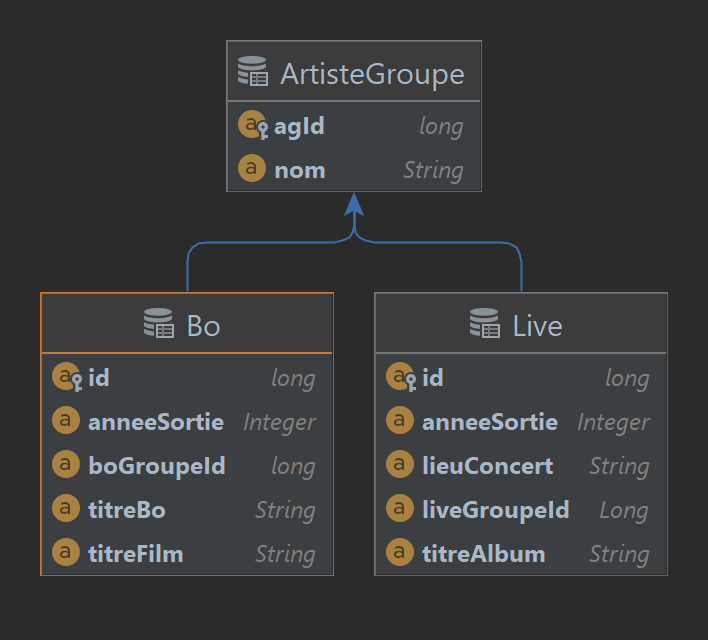
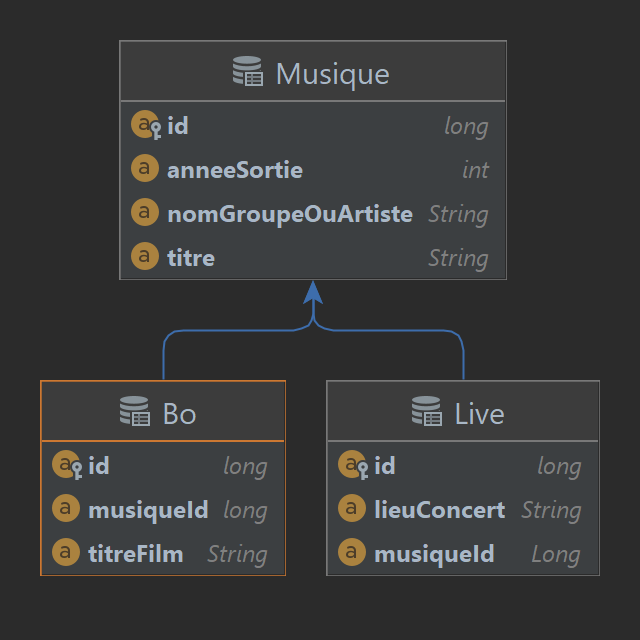
refactoring table artiste_groupe devient musique

diff --git a/src/main/java/LectureFichier.java b/src/main/java/LectureFichier.java
@@ -1,4 +1,4 @@
-import entity.ArtisteGroupe;
+import entity.Musique;
 import entity.Bo;
 
 import javax.persistence.*;
@@ -8,15 +8,17 @@ import java.io.FileReader;
 import java.io.IOException;
 import java.util.*;
 
-
+/**
+ *
+ */
 public class LectureFichier {
 
     static List liste_entites = new LinkedList();
 
     public static void main(String[] args) {
         try {
-            int artiste_groupe_id = 0;
-            int bo_id = 0;
+            int musiqueId = 0;
+            int boId = 0;
             // A. Lecture au clavier du chemin du fichier texte BO & Live
 //            Scanner console = new Scanner(System.in);
             // C:\rootGit\EG3DM\src\test\resources\BoAndLive.txt
@@ -41,30 +43,30 @@ public class LectureFichier {
                 if (type.equals("BO")) {
                     System.out.println("entrée de type:  BO");
                     // Nom de Groupe ou artiste
-                    String titre_bo = data[1];
+                    String titreBO = data[1];
                     // Titre BO
-                    String groupe_artiste = data[2];
+                    String nomGroupeOuArtiste = data[2];
                     // Année de sortie
-                    String annee_sortie = data[3];
+                    String anneeSortie = data[3];
                     // titre film
-                    String titre_film = data[4];
+                    String titreFilm = data[4];
                     // Vérifier l'année de sortie
                     try {
-                        Integer annee = Integer.parseInt(annee_sortie);
+                        Integer annee = Integer.parseInt(anneeSortie);
                         // créer une entity artiste_groupe
-                        artiste_groupe_id = artiste_groupe_id + 1;
-                        ArtisteGroupe artisteGroupe = new ArtisteGroupe();
-                        artisteGroupe.setAgId(artiste_groupe_id);
-                        artisteGroupe.setNom(groupe_artiste);
-                        liste_entites.add(artisteGroupe);
+                        musiqueId = musiqueId + 1;
+                        Musique musique = new Musique();
+                        musique.setId(musiqueId);
+                        musique.setNomGroupeOuArtiste(nomGroupeOuArtiste);
+                        musique.setAnneeSortie(annee);
+                        musique.setTitre(titreBO);
+                        liste_entites.add(musique);
                         // créer une entity Bo
-                        bo_id = bo_id + 1;
+                        boId = boId + 1;
                         Bo bo = new Bo();
-                        bo.setId(bo_id);
-                        bo.setAnneeSortie(annee);
-                        bo.setTitreBo(titre_bo);
-                        bo.setTitreFilm(titre_film);
-                        bo.setArtisteGroupeByBoGroupeId(artisteGroupe);
+                        bo.setId(boId);
+                        bo.setTitreFilm(titreFilm);
+                        bo.setMusiqueByMusiqueId(musique);
                         liste_entites.add(bo);
 
                     } catch (NumberFormatException ex) {
@@ -105,22 +107,16 @@ public class LectureFichier {
         for (int i = 0; i < liste_entites.size(); i++) {
             System.out.println("Élément à l'index " + i + " = " + liste_entites.get(i));
         }
-        // D: Stocker les entités en BD
+        // D: Inserer ou mettre à jour les entités en BD
         Insertion_entites();
         // Relire les Bo et Live et les afficher
 
     }
 
-    private static boolean isStringInt(String s) {
-        try {
-            Integer.parseInt(s);
-            return true;
-        } catch (NumberFormatException ex) {
-            return false;
-        }
-    }
 
-
+    /**
+     *
+     */
     private static void Insertion_entites() {
         EntityManagerFactory entityManagerFactory = Persistence.createEntityManagerFactory("default");
         EntityManager entityManager = entityManagerFactory.createEntityManager();

diff --git a/src/main/java/entity/Bo.java b/src/main/java/entity/Bo.java
@@ -2,7 +2,8 @@ package entity;
 
 import javax.persistence.*;
 import java.util.Objects;
-@NamedQuery(name = "BOBy", query = "SELECT b FROM Bo b where b.titreBo=?1")
+
+@NamedQuery(name = "BOBy", query = "SELECT b FROM Bo b where b.titreFilm=?1")
 @Entity
 public class Bo {
 //    @GeneratedValue(strategy = GenerationType.IDENTITY)
@@ -10,20 +11,14 @@ public class Bo {
     @Column(name = "id")
     private long id;
     @Basic
+    @Column(name = "musique_id" , insertable = false, updatable = false)
+    private long musiqueId;
+    @Basic
     @Column(name = "titre_film")
     private String titreFilm;
-    @Basic
-    @Column(name = "titre_bo")
-    private String titreBo;
-    @Basic
-    @Column(name = "bo_groupe_id" , insertable = false, updatable = false)
-    private long boGroupeId;
-    @Basic
-    @Column(name = "annee_sortie")
-    private Integer anneeSortie;
     @ManyToOne
-    @JoinColumn(name = "bo_groupe_id", referencedColumnName = "ag_id", nullable = false)
-    private ArtisteGroupe artisteGroupeByBoGroupeId;
+    @JoinColumn(name = "musique_id", referencedColumnName = "id", nullable = false)
+    private Musique musiqueByMusiqueId;
 
     public long getId() {
         return id;
@@ -31,6 +26,14 @@ public class Bo {
 
     public void setId(long id) {
         this.id = id;
+    }
+
+    public long getMusiqueId() {
+        return musiqueId;
+    }
+
+    public void setMusiqueId(long musiqueId) {
+        this.musiqueId = musiqueId;
     }
 
     public String getTitreFilm() {
@@ -41,48 +44,24 @@ public class Bo {
         this.titreFilm = titreFilm;
     }
 
-    public String getTitreBo() {
-        return titreBo;
-    }
-
-    public void setTitreBo(String titreBo) {
-        this.titreBo = titreBo;
-    }
-
-    public long getBoGroupeId() {
-        return boGroupeId;
-    }
-
-    public void setBoGroupeId(long boGroupeId) {
-        this.boGroupeId = boGroupeId;
-    }
-
-    public Integer getAnneeSortie() {
-        return anneeSortie;
-    }
-
-    public void setAnneeSortie(Integer anneeSortie) {
-        this.anneeSortie = anneeSortie;
-    }
-
     @Override
     public boolean equals(Object o) {
         if (this == o) return true;
         if (o == null || getClass() != o.getClass()) return false;
         Bo bo = (Bo) o;
-        return id == bo.id && boGroupeId == bo.boGroupeId && Objects.equals(titreFilm, bo.titreFilm) && Objects.equals(titreBo, bo.titreBo) && Objects.equals(anneeSortie, bo.anneeSortie);
+        return id == bo.id && musiqueId == bo.musiqueId && Objects.equals(titreFilm, bo.titreFilm);
     }
 
     @Override
     public int hashCode() {
-        return Objects.hash(id, titreFilm, titreBo, boGroupeId, anneeSortie);
+        return Objects.hash(id, musiqueId, titreFilm);
     }
 
-    public ArtisteGroupe getArtisteGroupeByBoGroupeId() {
-        return artisteGroupeByBoGroupeId;
+    public Musique getMusiqueByMusiqueId() {
+        return musiqueByMusiqueId;
     }
 
-    public void setArtisteGroupeByBoGroupeId(ArtisteGroupe artisteGroupeByBoGroupeId) {
-        this.artisteGroupeByBoGroupeId = artisteGroupeByBoGroupeId;
+    public void setMusiqueByMusiqueId(Musique musiqueByMusiqueId) {
+        this.musiqueByMusiqueId = musiqueByMusiqueId;
     }
 }

diff --git a/src/main/java/entity/Live.java b/src/main/java/entity/Live.java
@@ -10,20 +10,14 @@ public class Live {
     @Column(name = "id")
     private long id;
     @Basic
-    @Column(name = "titre_album")
-    private String titreAlbum;
-    @Basic
-    @Column(name = "lieuConcert")
+    @Column(name = "lieu_concert")
     private String lieuConcert;
     @Basic
-    @Column(name = "live_groupe_id" , insertable = false, updatable = false)
-    private Long liveGroupeId;
-    @Basic
-    @Column(name = "annee_sortie")
-    private Integer anneeSortie;
+    @Column(name = "musique_id", insertable = false, updatable = false)
+    private Long musiqueId;
     @ManyToOne
-    @JoinColumn(name = "live_groupe_id", referencedColumnName = "ag_id")
-    private ArtisteGroupe artisteGroupeByLiveGroupeId;
+    @JoinColumn(name = "musique_id", referencedColumnName = "id")
+    private Musique musiqueByMusiqueId;
 
     public long getId() {
         return id;
@@ -31,14 +25,6 @@ public class Live {
 
     public void setId(long id) {
         this.id = id;
-    }
-
-    public String getTitreAlbum() {
-        return titreAlbum;
-    }
-
-    public void setTitreAlbum(String titreAlbum) {
-        this.titreAlbum = titreAlbum;
     }
 
     public String getLieuConcert() {
@@ -49,20 +35,12 @@ public class Live {
         this.lieuConcert = lieuConcert;
     }
 
-    public Long getLiveGroupeId() {
-        return liveGroupeId;
+    public Long getMusiqueId() {
+        return musiqueId;
     }
 
-    public void setLiveGroupeId(Long liveGroupeId) {
-        this.liveGroupeId = liveGroupeId;
-    }
-
-    public Integer getAnneeSortie() {
-        return anneeSortie;
-    }
-
-    public void setAnneeSortie(Integer anneeSortie) {
-        this.anneeSortie = anneeSortie;
+    public void setMusiqueId(Long musiqueId) {
+        this.musiqueId = musiqueId;
     }
 
     @Override
@@ -70,19 +48,19 @@ public class Live {
         if (this == o) return true;
         if (o == null || getClass() != o.getClass()) return false;
         Live live = (Live) o;
-        return id == live.id && Objects.equals(titreAlbum, live.titreAlbum) && Objects.equals(lieuConcert, live.lieuConcert) && Objects.equals(liveGroupeId, live.liveGroupeId) && Objects.equals(anneeSortie, live.anneeSortie);
+        return id == live.id && Objects.equals(lieuConcert, live.lieuConcert) && Objects.equals(musiqueId, live.musiqueId);
     }
 
     @Override
     public int hashCode() {
-        return Objects.hash(id, titreAlbum, lieuConcert, liveGroupeId, anneeSortie);
+        return Objects.hash(id, lieuConcert, musiqueId);
     }
 
-    public ArtisteGroupe getArtisteGroupeByLiveGroupeId() {
-        return artisteGroupeByLiveGroupeId;
+    public Musique getMusiqueByMusiqueId() {
+        return musiqueByMusiqueId;
     }
 
-    public void setArtisteGroupeByLiveGroupeId(ArtisteGroupe artisteGroupeByLiveGroupeId) {
-        this.artisteGroupeByLiveGroupeId = artisteGroupeByLiveGroupeId;
+    public void setMusiqueByMusiqueId(Musique musiqueByMusiqueId) {
+        this.musiqueByMusiqueId = musiqueByMusiqueId;
     }
 }

diff --git a/src/main/java/entity/Musique.java b/src/main/java/entity/Musique.java
@@ -1,0 +1,66 @@
+package entity;
+
+import javax.persistence.*;
+import java.util.Objects;
+
+@Entity
+public class Musique {
+//    @GeneratedValue(strategy = GenerationType.IDENTITY)
+    @Id
+    @Column(name = "id")
+    private long id;
+    @Basic
+    @Column(name = "nom_groupe_ou_artiste")
+    private String nomGroupeOuArtiste;
+    @Basic
+    @Column(name = "annee_sortie")
+    private int anneeSortie;
+    @Basic
+    @Column(name = "titre")
+    private String titre;
+
+    public long getId() {
+        return id;
+    }
+
+    public void setId(long id) {
+        this.id = id;
+    }
+
+    public String getNomGroupeOuArtiste() {
+        return nomGroupeOuArtiste;
+    }
+
+    public void setNomGroupeOuArtiste(String nomGroupeOuArtiste) {
+        this.nomGroupeOuArtiste = nomGroupeOuArtiste;
+    }
+
+    public int getAnneeSortie() {
+        return anneeSortie;
+    }
+
+    public void setAnneeSortie(int anneeSortie) {
+        this.anneeSortie = anneeSortie;
+    }
+
+    public String getTitre() {
+        return titre;
+    }
+
+    public void setTitre(String titre) {
+        this.titre = titre;
+    }
+
+    @Override
+    public boolean equals(Object o) {
+        if (this == o) return true;
+        if (o == null || getClass() != o.getClass()) return false;
+        Musique musique = (Musique) o;
+        return id == musique.id && anneeSortie == musique.anneeSortie && Objects.equals(nomGroupeOuArtiste, musique.nomGroupeOuArtiste) && Objects.equals(titre, musique.titre);
+    }
+
+    @Override
+    public int hashCode() {
+        return Objects.hash(id, nomGroupeOuArtiste, anneeSortie, titre);
+    }
+}

diff --git a/src/main/java/Main.java b/src/main/java/Main.java
@@ -1,4 +1,4 @@
-import entity.ArtisteGroupe;
+import entity.Musique;
 import entity.Bo;
 
 import javax.persistence.*;
@@ -13,17 +13,19 @@ public class Main {
 
         try {
             transaction.begin();
-            ArtisteGroupe artisteGroupe = new ArtisteGroupe();
-            artisteGroupe.setAgId(8);
+            Musique musique = new Musique();
+            musique.setId(1);
 
 //            Date utilDate = new Date();
 //            java.sql.Date sqlDate = new java.sql.Date(utilDate.getTime());
 
-            artisteGroupe.setNom("ACDC");
-            entityManager.merge(artisteGroupe);
+            musique.setTitre("lalala");
+            musique.setNomGroupeOuArtiste("U2");
+            musique.setAnneeSortie(2000);
+            entityManager.merge(musique);
             TypedQuery<Bo> boByQuery = entityManager.createNamedQuery("BOBy", Bo.class);
-            boByQuery.setParameter(1,"live");
-            for (Bo b :boByQuery.getResultList()){
+            boByQuery.setParameter(1, "007");
+            for (Bo b : boByQuery.getResultList()) {
                 System.out.println(b);
             }
 
